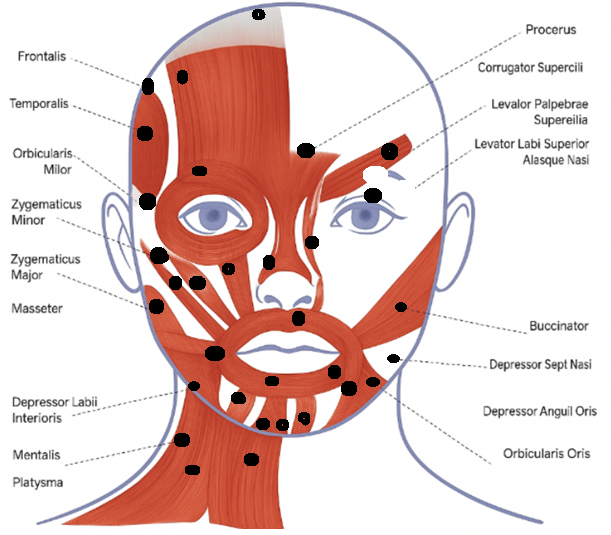
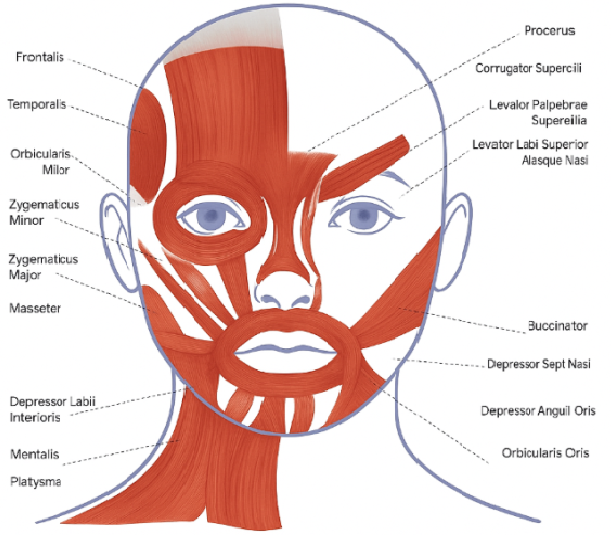
Remove calibration and position loading buttons from anatomical analysis
Removes the "Start Calibration", "Detect Black Dots", and "Load Saved Positions" buttons from the anatomical analysis view in `full-consultation-interface.tsx`.

Replit-Commit-Author: Agent
Replit-Commit-Session-Id: 6d70ed27-9225-4c7e-a35d-5d3bd0d4a3fd
Replit-Commit-Checkpoint-Type: full_checkpoint
Replit-Commit-Screenshot-Url: https://storage.googleapis.com/screenshot-production-us-central1/d8b3cc92-d705-4caf-84a3-22b5febc5c9a/6d70ed27-9225-4c7e-a35d-5d3bd0d4a3fd/SvY49aK

diff --git a/client/src/components/consultation/full-consultation-interface.tsx b/client/src/components/consultation/full-consultation-interface.tsx
@@ -2294,29 +2294,6 @@ Patient should be advised of potential side effects and expected timeline for re
                   <div className="mt-4 p-3 bg-gray-100 rounded-lg border">
                     <div className="flex items-center justify-between gap-4">
                       <div className="flex items-center gap-3">
-                        <button
-                          onClick={() => {
-                            setCalibrationMode(!calibrationMode);
-                            if (calibrationMode) setCalibrationPoints([]);
-                          }}
-                          className={`px-3 py-2 rounded text-sm font-medium ${
-                            calibrationMode 
-                              ? 'bg-red-500 text-white' 
-                              : 'bg-blue-500 text-white hover:bg-blue-600'
-                          }`}
-                        >
-                          {calibrationMode ? '✕ Stop Calibration' : '🎯 Start Calibration'}
-                        </button>
-                        
-                        {/* Black Dot Detection Button */}
-                        <button
-                          onClick={detectBlackDots}
-                          disabled={!imageLoaded || !overlayPosition}
-                          className="px-3 py-2 bg-yellow-500 text-white rounded text-sm hover:bg-yellow-600 disabled:opacity-50 font-medium"
-                          data-testid="button-detect-black-dots"
-                        >
-                          🔍 Detect Black Dots
-                        </button>
                         
                         {showBlackDotPolygons && (
                           <>
@@ -2340,16 +2317,6 @@ Patient should be advised of potential side effects and expected timeline for re
                             </button>
                           </>
                         )}
-                        
-                        {/* Load Saved Positions Button */}
-                        <button
-                          onClick={loadSavedMusclePositions}
-                          disabled={!(patientId || patient?.id)}
-                          className="px-3 py-2 bg-purple-500 text-white rounded text-sm hover:bg-purple-600 disabled:opacity-50 font-medium"
-                          data-testid="button-load-saved-positions"
-                        >
-                          📊 Load Saved Positions
-                        </button>
                         
                         {showSavedPositions && (
                           <button
